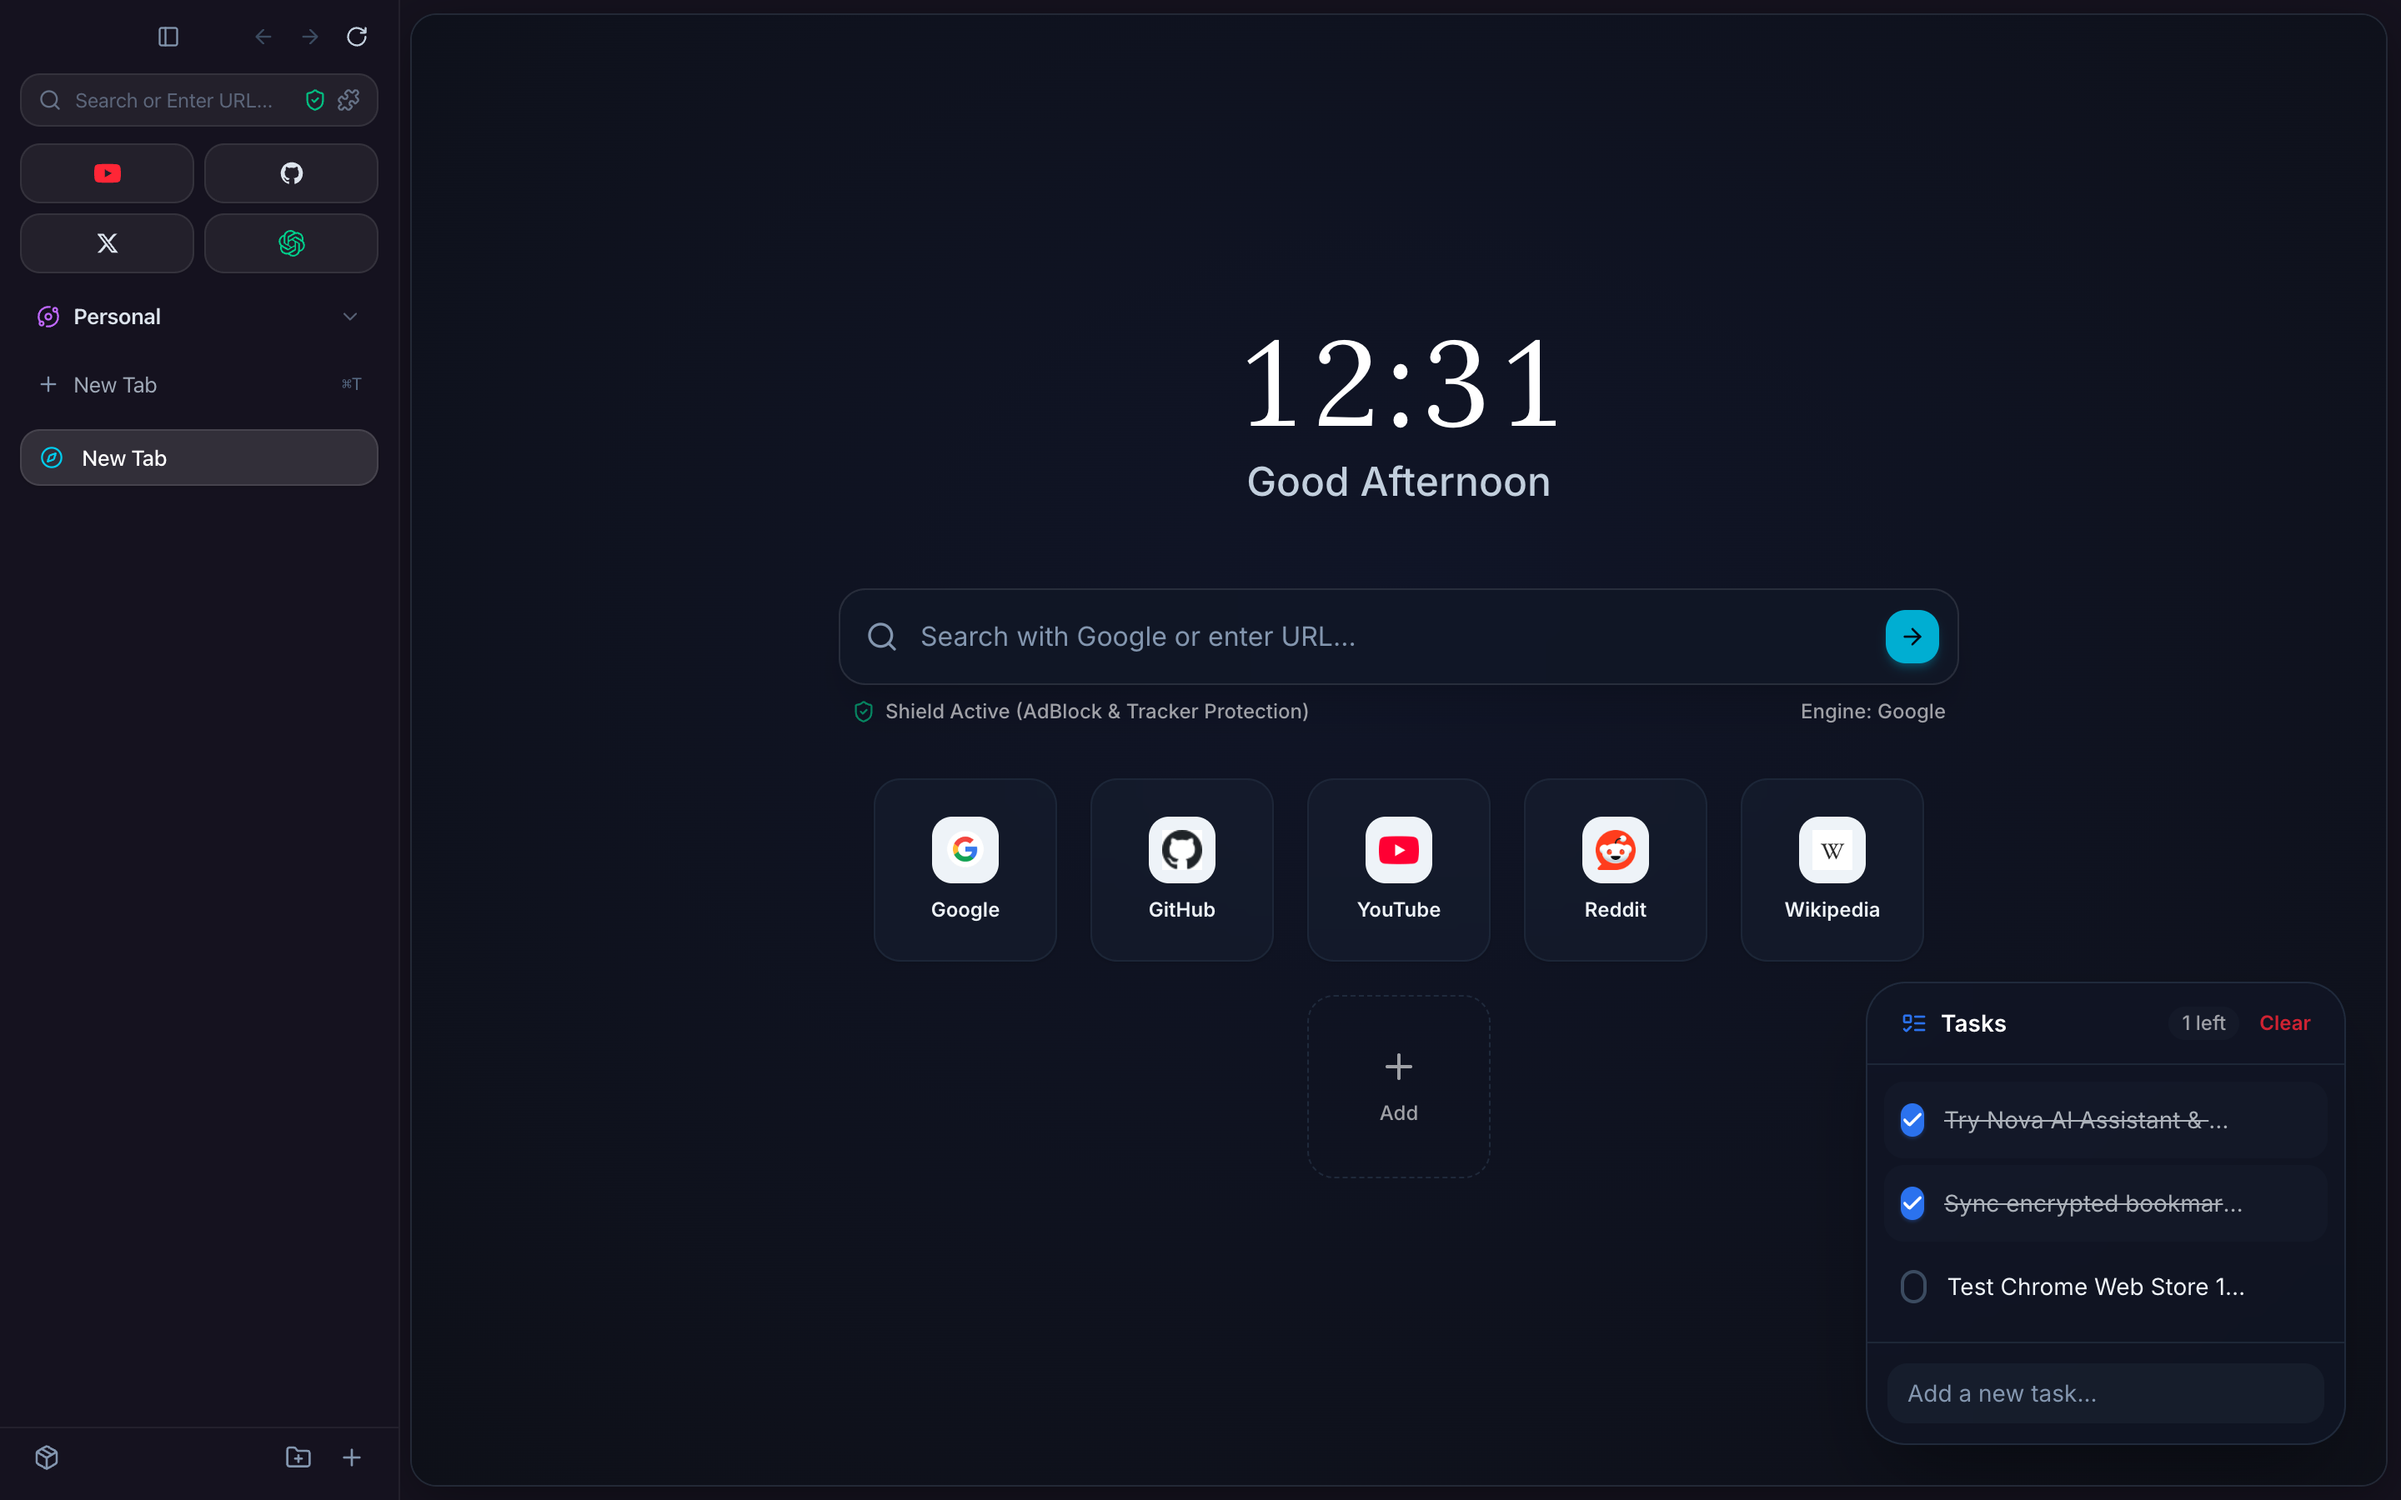
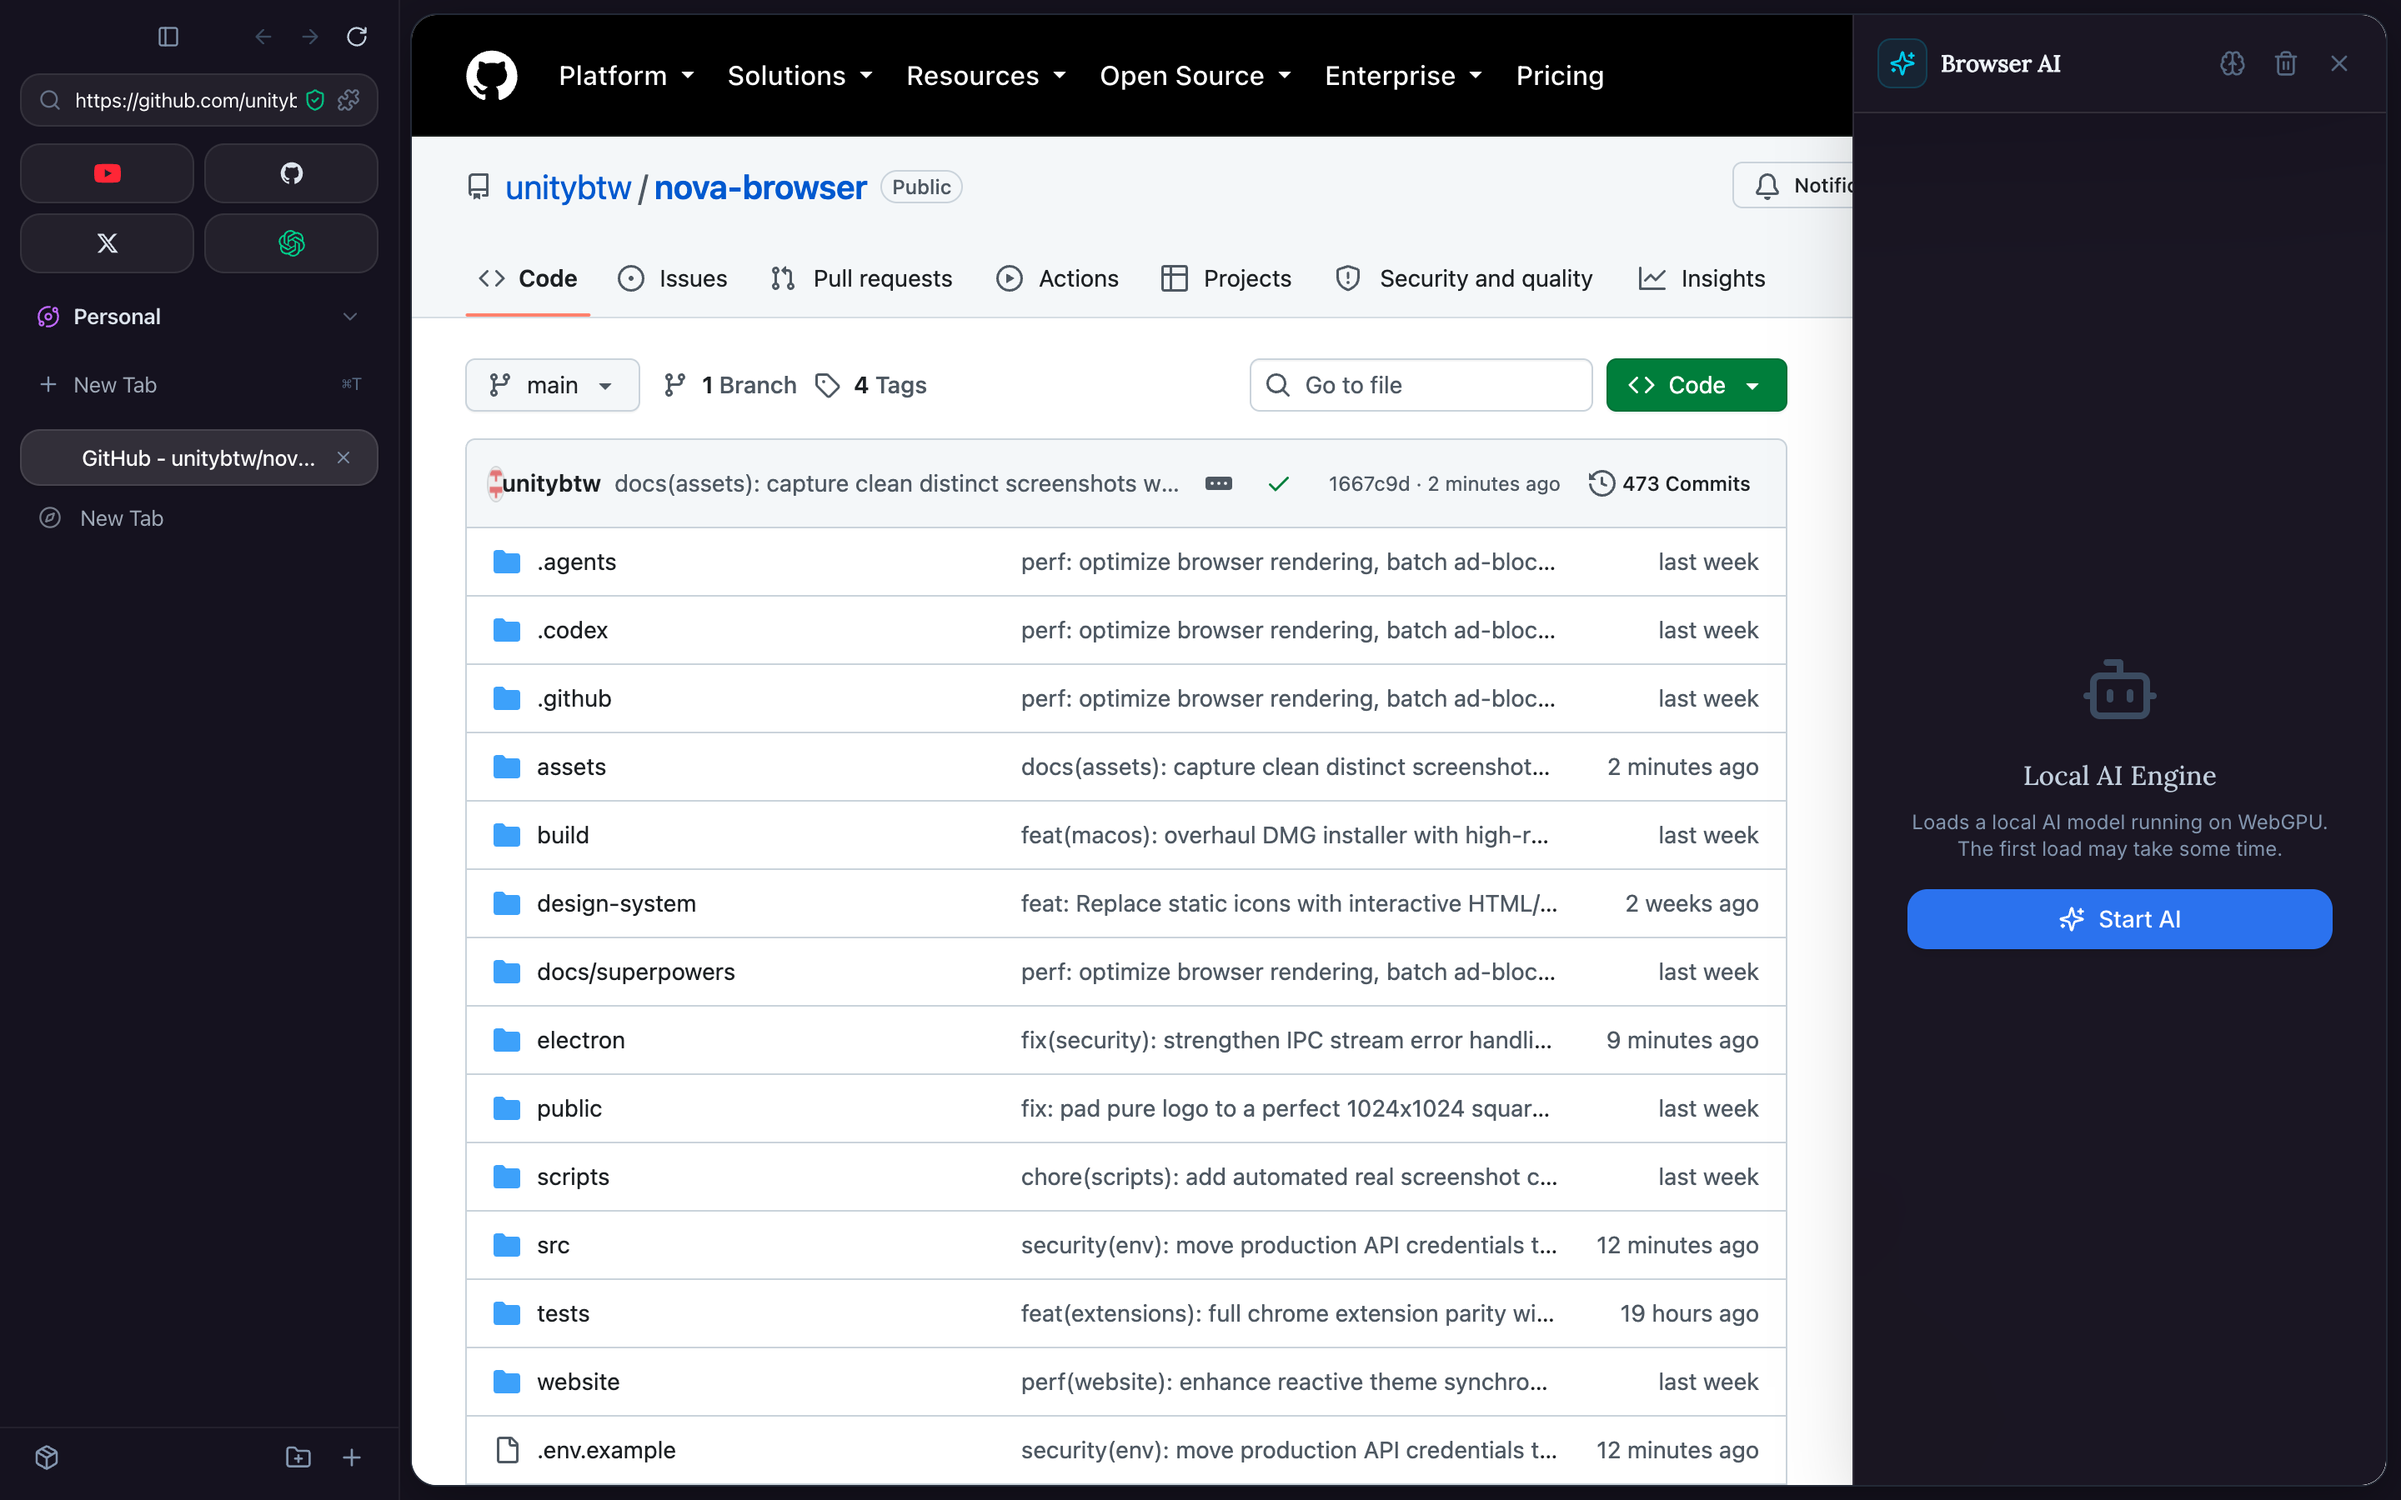
docs(assets): generate 3 distinct high-res screenshots for NewTab, AI Browsing, and Nova Sync

diff --git a/src/App.tsx b/src/App.tsx
@@ -1089,9 +1089,11 @@ function App() {
 
     const handleOpenSidePanel = () => setIsSidePanelOpen(true);
     const handleOpenWorkspaceManager = () => setIsWorkspaceManagerOpen(true);
+    const handleOpenAccountModal = () => setIsAccountModalOpen(true);
     
     window.addEventListener('open-ai-sidepanel', handleOpenSidePanel);
     window.addEventListener('open-workspace-manager', handleOpenWorkspaceManager);
+    window.addEventListener('open-account-modal', handleOpenAccountModal);
 
     return () => {
       if (typeof cleanupShortcut === 'function') cleanupShortcut();
@@ -1100,6 +1102,7 @@ function App() {
       if (typeof cleanupExtInstall === 'function') cleanupExtInstall();
       window.removeEventListener('open-ai-sidepanel', handleOpenSidePanel);
       window.removeEventListener('open-workspace-manager', handleOpenWorkspaceManager);
+      window.removeEventListener('open-account-modal', handleOpenAccountModal);
     };
   }, []);
 
